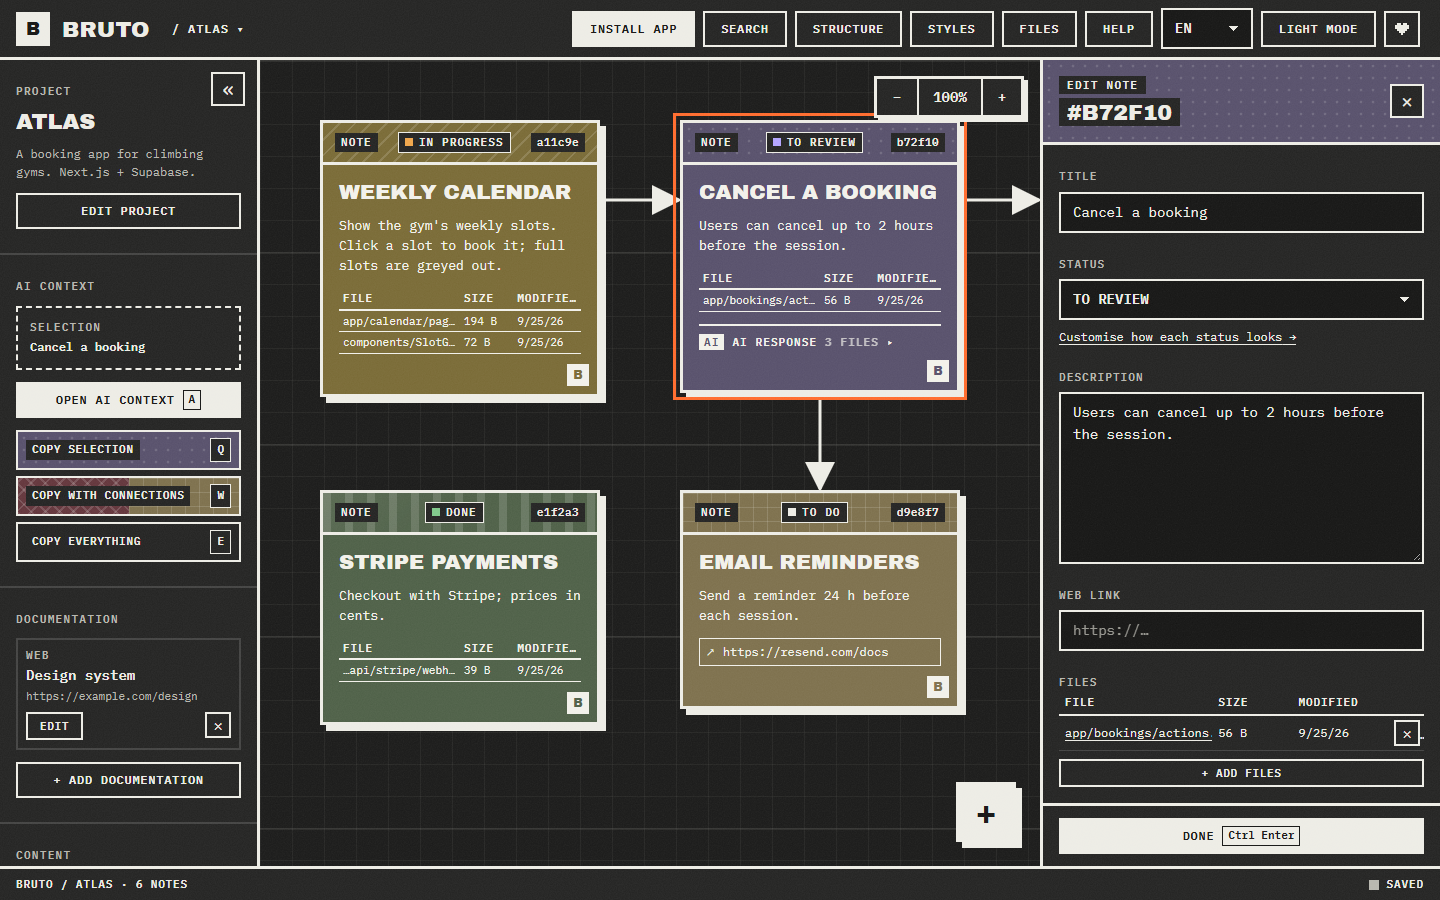
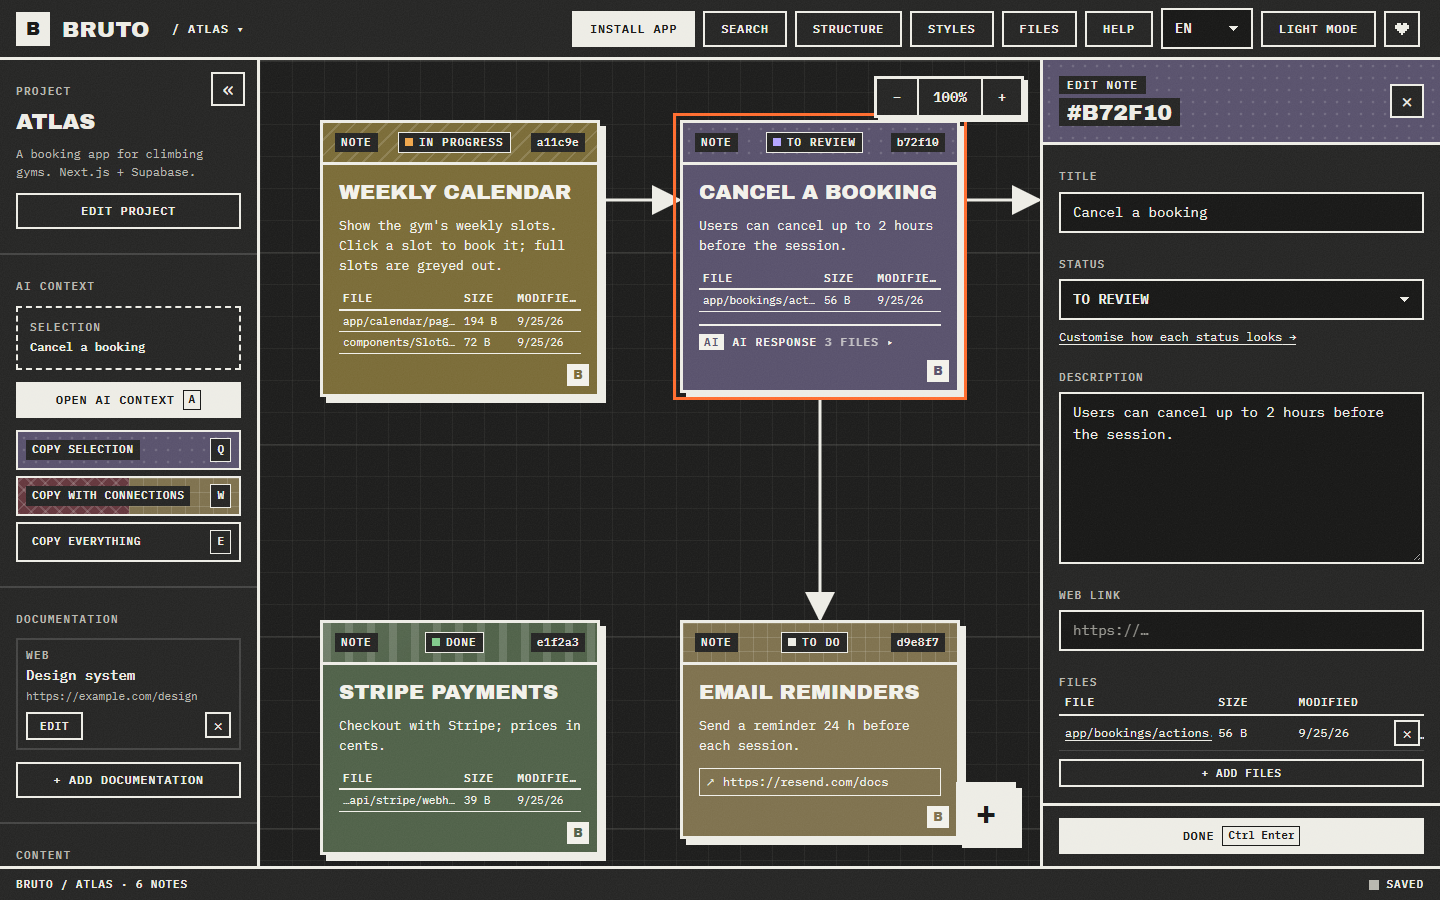
Give the example's notes room to open their AI responses
Opening "Cancel a booking" or "Double booking on refresh" in the example
ran into the notes below, which covered them. The second row now starts
lower, so in English every response opens without touching another note
and the whole board still fits a 1440×900 window.

On any board, a note with its AI response open now goes on top of the
others while it stays open, instead of hiding under the next note.

Screenshots retaken with the new layout.

Changed region(s): [[0.2188, 0.5289, 0.4375, 0.9644], [0.4688, 0.4978, 0.6875, 0.9644]]

diff --git a/src/demo/demoProject.ts b/src/demo/demoProject.ts
@@ -344,7 +344,11 @@ export const DEMO_TEXTS: Record<Language, DemoText> = {
   },
 }
 
-/** Where each note sits and what it holds besides its words. */
+/**
+ * Where each note sits and what it holds besides its words. The second row
+ * leaves room for the first to open its AI responses, and still fits a
+ * 1440×900 window.
+ */
 const NOTES: {
   key: DemoNoteKey
   id: string
@@ -396,7 +400,7 @@ const NOTES: {
     key: 'payments',
     id: 'e1f2a3b4-0000-4000-8000-000000000005',
     x: 60,
-    y: 430,
+    y: 560,
     status: 'done',
     colorTheme: 'moss',
     pattern: 'bands',
@@ -406,7 +410,7 @@ const NOTES: {
     key: 'reminders',
     id: 'd9e8f7a6-0000-4000-8000-000000000004',
     x: 420,
-    y: 430,
+    y: 560,
     status: 'todo',
     colorTheme: 'sand',
     pattern: 'grid',
@@ -416,7 +420,7 @@ const NOTES: {
     key: 'tests',
     id: 'f0e1d2c3-0000-4000-8000-000000000006',
     x: 780,
-    y: 430,
+    y: 560,
     status: 'loop',
     colorTheme: 'concrete',
     pattern: 'raw',

diff --git a/src/board/NoteCard.tsx b/src/board/NoteCard.tsx
@@ -32,6 +32,9 @@ interface NoteCardProps {
 
 const MAX_THUMBNAILS = 3
 
+/** An open AI response can reach the note below: while open, its note goes on top of the rest. */
+const OPEN_ABOVE = 1_000_000
+
 /** Words longer than this don't fit a card line at the full title size. */
 const LONG_WORD = 13
 const VERY_LONG_WORD = 17
@@ -84,7 +87,7 @@ export const NoteCard = memo(function NoteCard({
     <article
       ref={ref}
       className={classes.filter(Boolean).join(' ')}
-      style={{ left: note.x, top: note.y, zIndex: note.zIndex }}
+      style={{ left: note.x, top: note.y, zIndex: aiOpen ? OPEN_ABOVE + note.zIndex : note.zIndex }}
       data-note-id={note.id}
       tabIndex={0}
       aria-roledescription={t('note')}

diff --git a/scripts/shots.spec.ts b/scripts/shots.spec.ts
@@ -57,7 +57,7 @@ const shots = {
   /** Search with a content filter on. */
   async search(page: Page) {
     // An empty spot of the board, so no note is selected.
-    await page.mouse.click(1300, 820)
+    await page.mouse.click(1400, 450)
     await page.keyboard.press('Control+f')
     await page.getByRole('searchbox').fill('booking')
     await page.locator('.board-search__trait').first().click()
